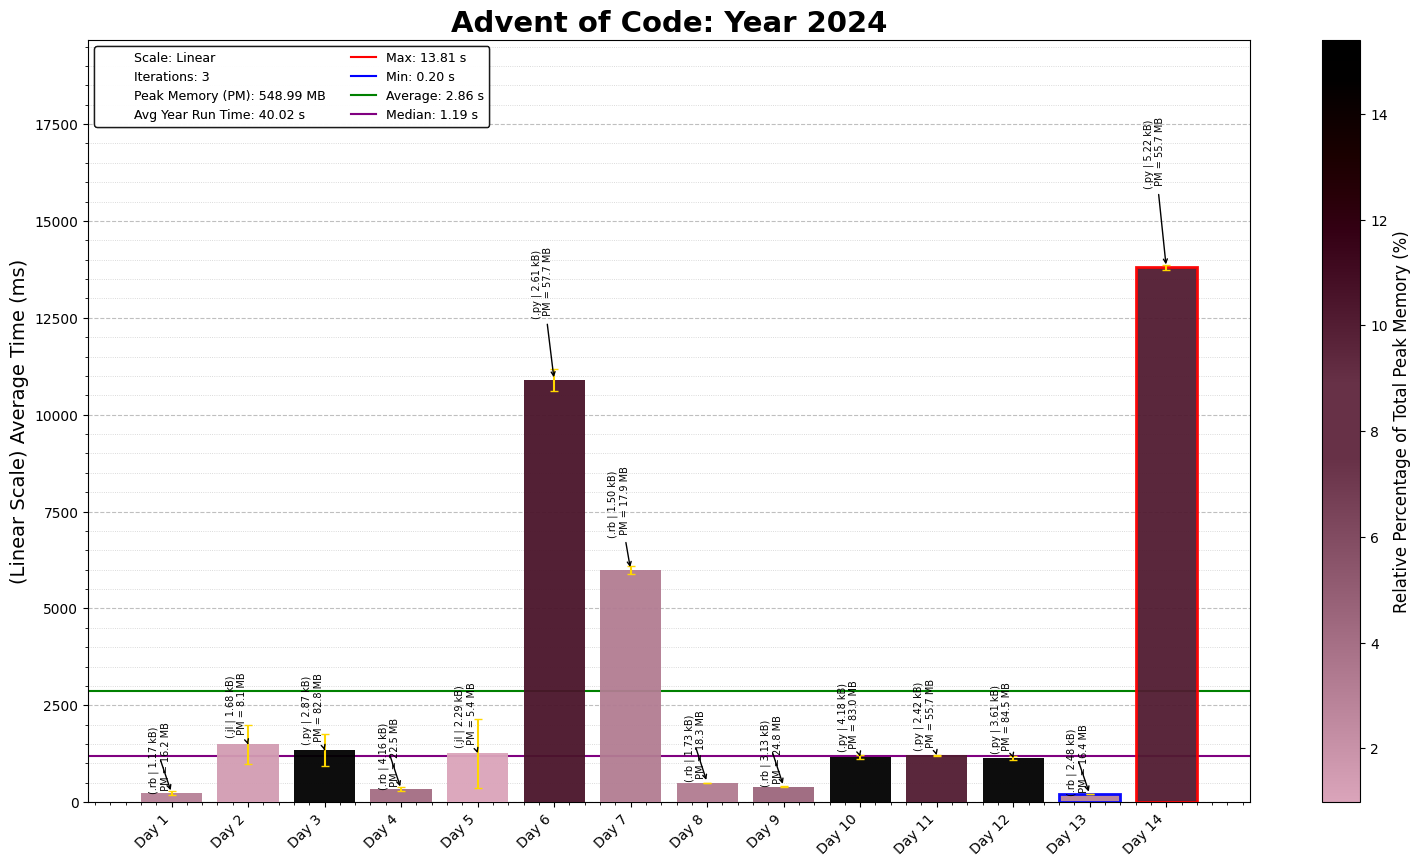
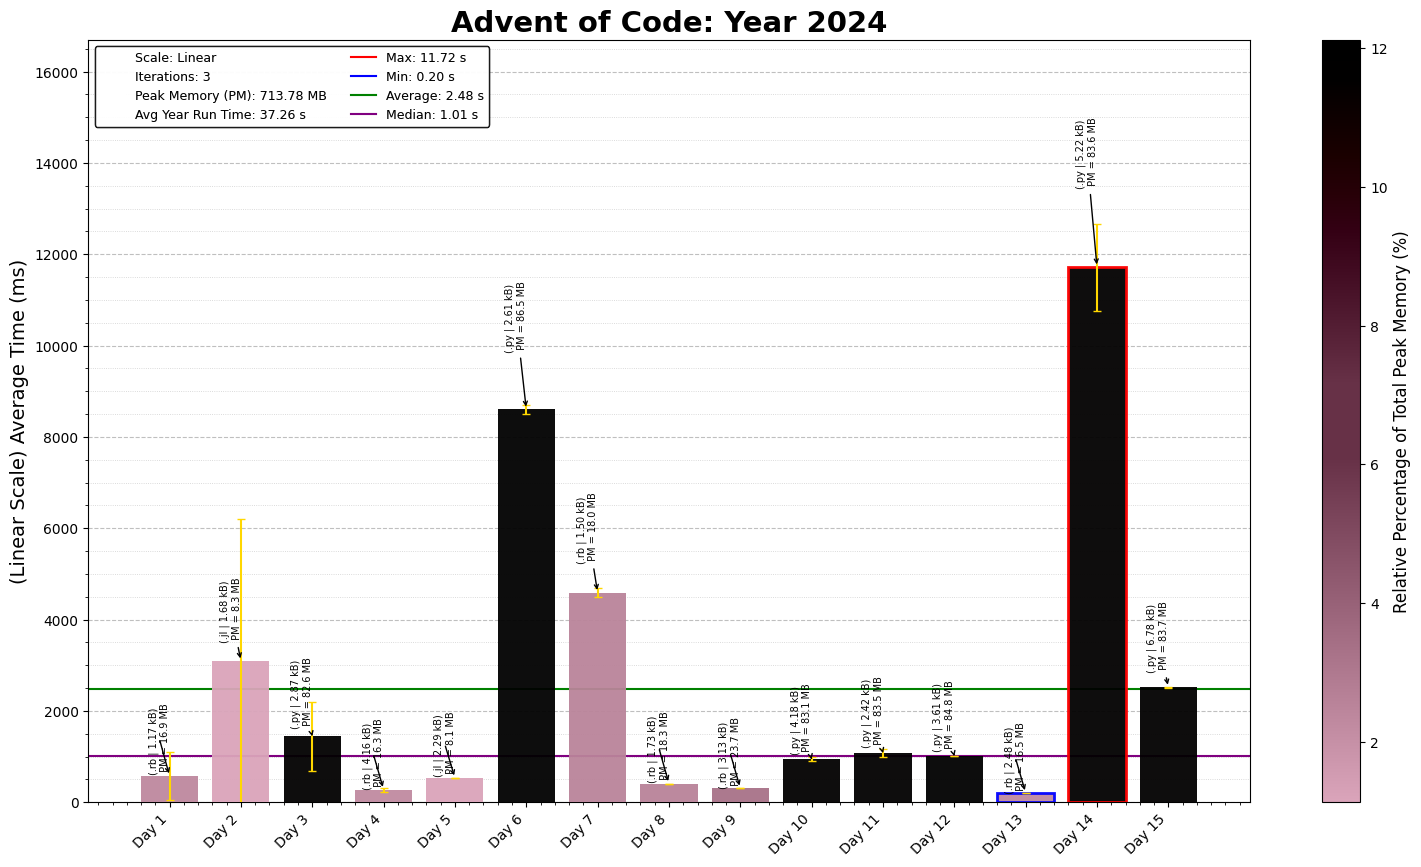
2024 Day 15 P1

diff --git a/2024/15/2024Day15.py b/2024/15/2024Day15.py
@@ -1,0 +1,164 @@
+"""Advent of Code - Day 15, Year 2024
+Solution Started: Dec 15, 2024
+Puzzle Link: https://adventofcode.com/2024/day/15
+Solution by: abbasmoosajee07
+Brief: [Code/Problem Description]
+"""
+
+#!/usr/bin/env python3
+
+import os, re, copy
+import numpy as np
+import pandas as pd
+import matplotlib.pyplot as plt
+
+# Load the input data from the specified file path
+D15_file = "Day15_input.txt"
+D15_file_path = os.path.join(os.path.dirname(os.path.abspath(__file__)), D15_file)
+
+# Read and sort input data into a grid
+with open(D15_file_path) as file:
+    input_data = file.read().strip().split('\n\n')
+
+def parse_input(input):
+    map_input = input[0].split('\n')
+    movements = list(input[1].replace('\n',''))
+    grid_map  = np.array([list(row) for row in map_input], dtype=object)
+    total_rows, total_cols = len(grid_map), len(grid_map[0])
+    empty_map = [['.' for _ in range(total_cols)] for _ in range(total_rows)]
+    box_count = 0
+
+    # Assuming start and end is on the border
+    for row_index, row in enumerate(grid_map):
+        for col_index, cell in enumerate(row):
+            if grid_map[row_index][col_index] == '#':
+                empty_map[row_index][col_index] = grid_map[row_index][col_index]
+            if cell == '@':
+                robot = (row_index, col_index)
+            if cell == 'O':
+                box_count += 1
+
+
+    return empty_map, grid_map, movements, box_count, robot
+
+def calculate_box_GPS(map):
+    gps_sum = 0
+    for row_no, row in enumerate(map):
+        for col_no, char in enumerate(row):
+            if char == 'O':
+                box_gps = (100 * row_no) + col_no
+                # print(f"{row_no=}, {col_no=}, {box_gps=}")
+                gps_sum += box_gps
+    return gps_sum
+
+def move_robot(map, movement, robot_start):
+
+    def move_boxes(map, robot_pos, dr, dc):
+            new_map = copy.deepcopy(map)
+            robot_stop = (robot_pos[0] + dr, robot_pos[1] + dc)
+            box_list = []
+
+            # Identify the target row/column and collect boxes in the path
+            if dr == 0 and abs(dc) == 1:  # Horizontal movement
+                target_idx = robot_pos[0]
+                target_row = map[target_idx]
+                if dc == 1:
+                    row_end = len(target_row)
+                elif dc == -1:
+                    row_end = 0
+                for col_idx in range(robot_pos[1] + dc, row_end, dc):
+                    char = target_row[col_idx]
+                    if char == 'O':
+                        box_list.append((target_idx, col_idx))
+                    elif char in ['#', '@', 'O']:
+                        break
+                    else:
+                        break
+
+            elif dc == 0 and abs(dr) == 1:  # Vertical movement
+                target_idx = robot_pos[1]
+                target_col = [row[target_idx] for row in map]
+                if dr == 1:
+                    col_end = len(target_col)
+                elif dr == -1:
+                    col_end = 0
+                for row_idx in range(robot_pos[0] + dr, col_end, dr):
+                    char = target_col[row_idx]
+                    if char == 'O':
+                        box_list.append((row_idx, target_idx))
+                    elif char in ['#', '@', 'O']:
+                        break
+                    else:
+                        break
+
+            # Check if the last box can move
+            if box_list:
+                last_row, last_col = box_list[-1]
+                next_row, next_col = last_row + dr, last_col + dc
+
+                if not (0 <= next_row < len(map) and 0 <= next_col < len(map[0])):
+                    return new_map, robot_pos  # Path is out of bounds
+
+                if map[next_row][next_col] != '.':
+                    return new_map, robot_pos  # Path is blocked
+
+                # Move boxes
+                for box_row, box_col in reversed(box_list):
+                    new_map[box_row + dr][box_col + dc] = 'O'  # Move box forward
+                    new_map[box_row][box_col] = '.'  # Clear old box position
+
+            # Update robot position
+            new_map[robot_pos[0]][robot_pos[1]] = '.'  # Clear old position
+            new_map[robot_stop[0]][robot_stop[1]] = '@'  # Move robot to the new position
+
+            return new_map, robot_stop
+
+    # Define movement directions: (row_delta, col_delta)
+    DIRECTIONS = {'^': (-1, 0), '>': (0, 1), 'v': (1, 0), '<': (0, -1)}
+    dr, dc = DIRECTIONS[movement]
+    new_row, new_col = robot_start[0] + dr, robot_start[1] + dc
+
+    # Check if the next position is within bounds and valid
+    if 0 <= new_row < len(map) and 0 <= new_col < len(map[0]):
+        if map[new_row][new_col] == '.':  # Move to empty cell
+            map[new_row][new_col] = '@'  # Mark new robot position
+            map[robot_start[0]][robot_start[1]] = '.'  # Clear old position
+            return map, (new_row, new_col)
+        elif map[new_row][new_col] == 'O':  # Special action on obstacle
+            new_map, robot_stop = move_boxes(map, robot_start, dr, dc)
+            return new_map, robot_stop  # Reset to empty map
+
+    # Return the unchanged map and position if the move is invalid
+    return map, robot_start
+
+test_input_1 = ['########\n#..O.O.#\n##@.O..#\n#...O..#\n#.#.O..#\n#...O..#\n#......#\n########', '<^^>>>vv<v>>v<<']
+
+test_input_2 = ['##########\n#..O..O.O#\n#......O.#\n#.OO..O.O#\n#..O@..O.#\n#O#..O...#\n#O..O..O.#\n#.OO.O.OO#\n#....O...#\n##########',
+                '<vv>^<v^>v>^vv^v>v<>v^v<v<^vv<<<^><<><>>v<vvv<>^v^>^<<<><<v<<<v^vv^v>^\nvvv<<^>^v^^><<>>><>^<<><^vv^^<>vvv<>><^^v>^>vv<>v<<<<v<^v>^<^^>>>^<v<v\n><>vv>v^v^<>><>>>><^^>vv>v<^^^>>v^v^<^^>v^^>v^<^v>v<>>v^v^<v>v^^<^^vv<\n<<v<^>>^^^^>>>v^<>vvv^><v<<<>^^^vv^<vvv>^>v<^^^^v<>^>vvvv><>>v^<<^^^^^\n^><^><>>><>^^<<^^v>>><^<v>^<vv>>v>>>^v><>^v><<<<v>>v<v<v>vvv>^<><<>^><\n^>><>^v<><^vvv<^^<><v<<<<<><^v<<<><<<^^<v<^^^><^>>^<v^><<<^>>^v<v^v<v^\n>^>>^v>vv>^<<^v<>><<><<v<<v><>v<^vv<<<>^^v^>^^>>><<^v>>v^v><^^>>^<>vv^\n<><^^>^^^<><vvvvv^v<v<<>^v<v>v<<^><<><<><<<^^<<<^<<>><<><^^^>^^<>^>v<>\n^^>vv<^v^v<vv>^<><v<^v>^^^>>>^^vvv^>vvv<>>>^<^>>>>>^<<^v>^vvv<>^<><<v>\nv^^>>><<^^<>>^v^<v^vv<>v^<<>^<^v^v><^<<<><<^<v><v<>vv>>v><v^<vv<>v^<<^']
+
+EMPTY_MAP, past_map, movement_list, BOX_COUNT, robot_previous = parse_input(input_data)
+
+# Iterate through the movement list
+for movement in movement_list[:]:
+    # Move the robot and get the updated map and position
+    past_map, robot_previous = move_robot(past_map, movement, robot_previous)
+
+    # Display the movement and updated map
+    # print(f"Movement: {movement}")
+    # for row in past_map:
+    #     print(''.join(row))
+
+
+ans_p1 = calculate_box_GPS(past_map)
+print("Part 1:", ans_p1)
+
+##########
+#.O.O.OOO#
+#........#
+#OO......#
+#OO@.....#
+#O#.....O#
+#O.....OO#
+#O.....OO#
+#OO....OO#
+##########
